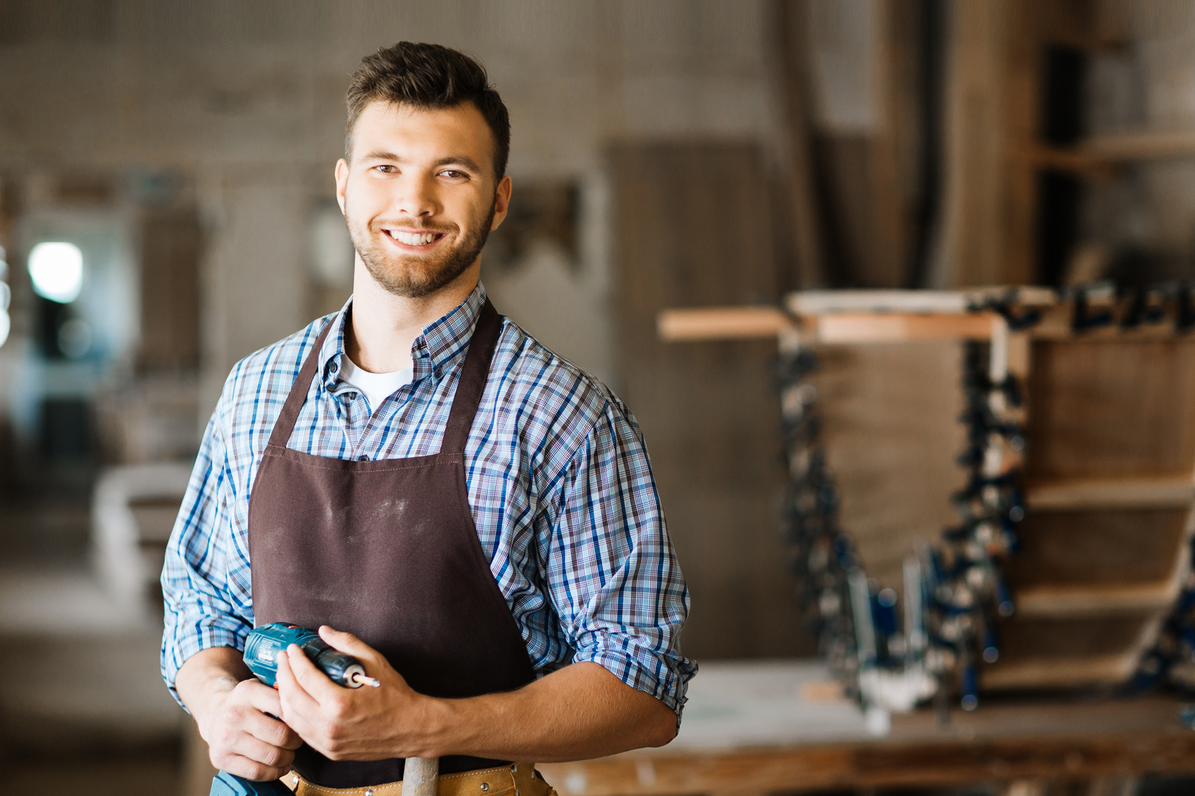
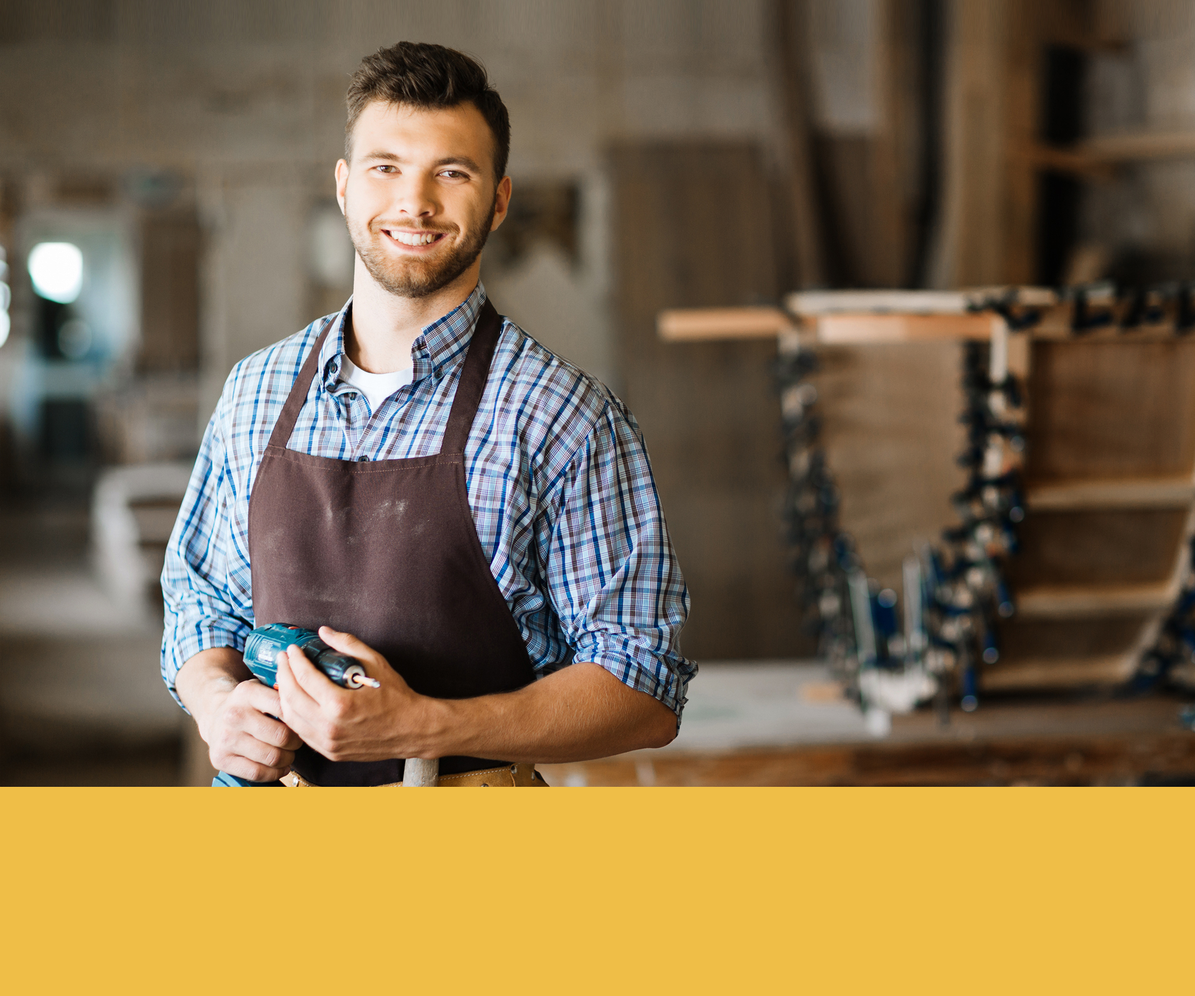
New files for website
Designer sent updated files for errors.

diff --git a/css/style.css b/css/style.css
@@ -530,21 +530,24 @@ ul.dropdown-menu li a:hover {
     Intro section              
 -----------------------------------------*/
 #intro {
-    background: url('../images/intro-bg.jpg') 100% 100%;
-    -webkit-background-size: cover;
-    background-size: cover;
-    background-position: center center;
-    color: #ffffff;
-    display: -webkit-box;
-    display: -webkit-flex;
-     display: -ms-flexbox;
-    display: flex;
-    -webkit-box-align: center;
-     -webkit-align-items: center;
-      -ms-flex-align: center;
-          align-items: center;
-    height: 100vh;
-    text-align: center;
+	-webkit-background-size: cover;
+	background-size: cover;
+	background-position: center top;
+	color: #ffffff;
+	display: -webkit-box;
+	display: -webkit-flex;
+	display: -ms-flexbox;
+	display: flex;
+	-webkit-box-align: center;
+	-webkit-align-items: center;
+	-ms-flex-align: center;
+	align-items: center;
+	height: 525px;
+	text-align: center;
+	background-attachment: fixed;
+	background-image: url(../images/intro-bg.jpg);
+	background-repeat: no-repeat;
+
 }
 
 #intro h3 {
@@ -1313,7 +1316,20 @@ footer {
 	line-height: 20px;
   }
 
-  #intro { height: 65vh; }
+  #intro { -webkit-background-size: cover;
+	background-size: cover;
+	background-position: center top;
+	color: #ffffff;
+	display: -webkit-box;
+	display: -webkit-flex;
+	display: -ms-flexbox;
+	display: flex;
+	-webkit-box-align: center;
+	-webkit-align-items: center;
+	-ms-flex-align: center;
+	align-items: center;
+	height: 300px;
+	text-align: center;}
 
   #video iframe {
     margin-top: 42px;
@@ -1345,9 +1361,9 @@ footer {
 }.custom-navbar .navbar-brand img {
 }
   #intro {
-    height: 60vh;
-	background-position: center center;
-	
+	background-position: center top;
+	height: 300px;
+		margin-top: -50px;
   }.header{
 	background-color: #24614e;
 }.navbar-toggle .icon-bar {
@@ -1403,7 +1419,7 @@ footer {
     margin-top: 82px;
   }#intro h3 {
 	font-family: 'Raleway', sans-serif;
-	font-size: 14px;
+	font-size: 12px;
 	width: 50%;
 	margin-right: 20px;
 	margin-left: auto;
@@ -1412,7 +1428,7 @@ footer {
 }
 #intro h1 {
 	font-family: 'Raleway', sans-serif;
-	font-size: 18px;
+	font-size: 14px;
 	text-transform: uppercase;
 	width: 50%;
 	margin-right: 20px;
@@ -1421,7 +1437,7 @@ footer {
 	line-height: 24px;
 	font-weight: normal;
 	margin-bottom: -10px;
-	margin-top: -20px;
+	margin-top: 15px;
 }#sponsors h1{
 	font-family: 'Raleway', sans-serif;
 	background-image: none;
@@ -1459,4 +1475,8 @@ footer {
 	}
 
 }
-
+.try {
+	background-image: url(../images/intro-bg.jpg);
+	background-repeat: no-repeat;
+	background-position: center -50px;
+}

diff --git a/about.html b/about.html
@@ -131,10 +131,10 @@ $('ul.nav li.dropdown').hover(function() {
 				<p>At Field Of Nodes  we are a global education consultancy. <em>We specialize in providing RPL services  for candidates who want to recognize their knowledge, skills and experience  using our Recognition of Prior Learning (RPL) program. </em>We help in the delivery  of nationally recognized qualifications in Australia. The award is based off of  the skills and past experience of the individual applying. A collection of evidence is obtained from the  individual, which is then assessed in relation to the details of performance criterion for each and all elements and subsequent units of competency that ultimately  make up the qualification in  questions.</p>
 				<p><em>We also offer, various online courses from several  industries for an on demand payment. </em>Courses can be taken to lead to a  qualification as part of the evidence part of the RPL process. <em>Field of Nodes is not a registered training  organisation so the courses are not accredited. </em>We also help International  students that get a confirmation of enrolment for a student visa. <em>We can help with your document translations by a NAATI  registered translator. </em>We have a translator available for most languages, but  this service is only available upon request.</p>
 			    <p>At Field of  Nodes, we pride ourselves on our high service standards and believe the RPL  process is more than just about getting your Certification; it is about  providing you with the tools to make a successful life.&nbsp;From helping you  with your applications, training to certification, we help you all the way!</p>
-			    <p id="button"><a href="contact.html">Contact Us TODAY</a><a href="faq.html">Have questions?</a></p>
+			    <p id="button"><a href="contact.html">Contact Us TODAY</a></p><p id="button"><a href="faq.html">Have questions?</a>
 		  </div>
-          <div class="col-md-3" >
-				<img src="images/about-img.png" class="img-responsive" alt="Overview">			</div>
+          <div class="col-md-3">
+				<img src="images/about-img.png" class="img-responsive" alt="Overview" align="right">			</div>
       </div>
 	</div>
 </section>

diff --git a/process.html b/process.html
@@ -126,6 +126,7 @@ $('ul.nav li.dropdown').hover(function() {
 			    <p>The first task for you, is to start gathering evidence that is associated with your given qualification. This evidence is to serve as a means of checking and verifying you experience.</p>
 			    <p>Once you have collected the items for evidence you are ready to contact Field of Nodes and utilise their many affiliate colleges and already existing relationships to ensure a fast turn around for the delivery of qualifications. <strong>Keep in mind that RTOs have a serious obligation to ensure all practices are done with due diligence and they may request further evidence that is more specific to your qualification requirments.</strong></p>
 			    <p id="button"><a href="contact.html">Contact Us TODAY</a><a href="faq.html">Have questions?</a><a href="courses.html">Course Recognition List</a></p>
+                <p>&nbsp;</p>
 		  </div>
             <div class="col-md-3" >
               <h2 align="center">EVIDENCE</h2>

diff --git a/index.html b/index.html
@@ -109,7 +109,7 @@ $('ul.nav li.dropdown').hover(function() {
 				<h1 class="wow fadeInUp" data-wow-delay="0.2s">RECOGNITION OF PRIOR LEARNING (RPL)</h1>
                 <h3 class="wow fadeInUp" data-wow-delay="0.3s">We can help you convert your training and experience into Qualifications 
 which will be recognised in Australia.
-<br/><a href="#overview" class="btn btn-lg btn-default smoothScroll wow fadeInUp" data-wow-delay="0.4s">LEARN MORE</a></h3>
+<br/><a href="RPL.html" class="btn btn-lg btn-default smoothScroll wow fadeInUp" data-wow-delay="0.4s">LEARN MORE</a></h3>
 				
 			
 

diff --git a/RPL.html b/RPL.html
@@ -139,7 +139,7 @@ $('ul.nav li.dropdown').hover(function() {
 			  <p id="button"><a href="contact.html">Contact Us TODAY</a><a href="faq.html">Have questions?</a><a href="qualify.html">Do I Qualify?</a><a href="courses.html">Course Recognition List</a></p>
 		  </div>
           <div class="col-md-3" >
-				<img src="images/rpl-img.png" class="img-responsive" alt="Overview">			</div>
+				<img src="images/rpl-img.png" class="img-responsive" alt="Overview" align="right">			</div>
       </div>
 	</div>
 </section>

diff --git a/courses.html b/courses.html
@@ -127,6 +127,8 @@ $('ul.nav li.dropdown').hover(function() {
 					  <br>
 				    Please <strong><a href="contact.html">Contact Us</a></strong> if you are looking for other qualifications.</p>
                     <p></p> <p id="button"><a href="contact.html">Contact Us TODAY</a><a href="faq.html">Have questions?</a><a href="qualify.html">Do I Qualify?</a><a href="process.html">GET STARTED</a></p>
+                    <p>&nbsp;</p>
+                 
 	          </div>
 		  </div>
 

diff --git a/translation.html b/translation.html
@@ -136,7 +136,7 @@ The way that this is done is through a translator. &nbsp;Field  of Nodes uses se
 			  <p id="button"><a href="contact.html">Contact Us TODAY</a></p>
 		  </div>
           <div class="col-md-3" >
-				<img src="images/translations-img.png" class="img-responsive" alt="For Students">			</div>
+				<img src="images/translations-img.png" class="img-responsive" alt="For Students" align="right">			</div>
       </div>
 	</div>
 </section>

diff --git a/students.html b/students.html
@@ -133,7 +133,7 @@ $('ul.nav li.dropdown').hover(function() {
 			  <p id="button"><a href="contact.html">Contact Us TODAY</a><a href="#">Student Enrolment</a></p>
 		  </div>
           <div class="col-md-3" >
-				<img src="images/student-img.png" class="img-responsive" alt="For Students">			</div>
+				<img src="images/student-img.png" class="img-responsive" alt="For Students" align="right">			</div>
       </div>
 	</div>
 </section>

diff --git a/professionaldevelopment.html b/professionaldevelopment.html
@@ -134,7 +134,7 @@ $('ul.nav li.dropdown').hover(function() {
 			  <p id="button"><a href="contact.html">Contact Us TODAY</a><a href="getstarted.html">GET STARTED</a></p>
 		  </div>
       <div class="col-md-3" >
-				<img src="images/about-img.png" class="img-responsive" alt="Overview">			</div>
+				<img src="images/about-img.png" class="img-responsive" alt="Overview" align="right">			</div>
       </div>
 	</div>
 </section>

diff --git a/migration.html b/migration.html
@@ -192,7 +192,7 @@ $('ul.nav li.dropdown').hover(function() {
     </div>
     </div>
           <div class="col-md-3" >
-				<img src="images/migration-img.png" class="img-responsive" alt="Overview">			</div>
+				<img src="images/migration-img.png" class="img-responsive" alt="Overview" align="right">			</div>
       </div>
 	</div>
 </section>
